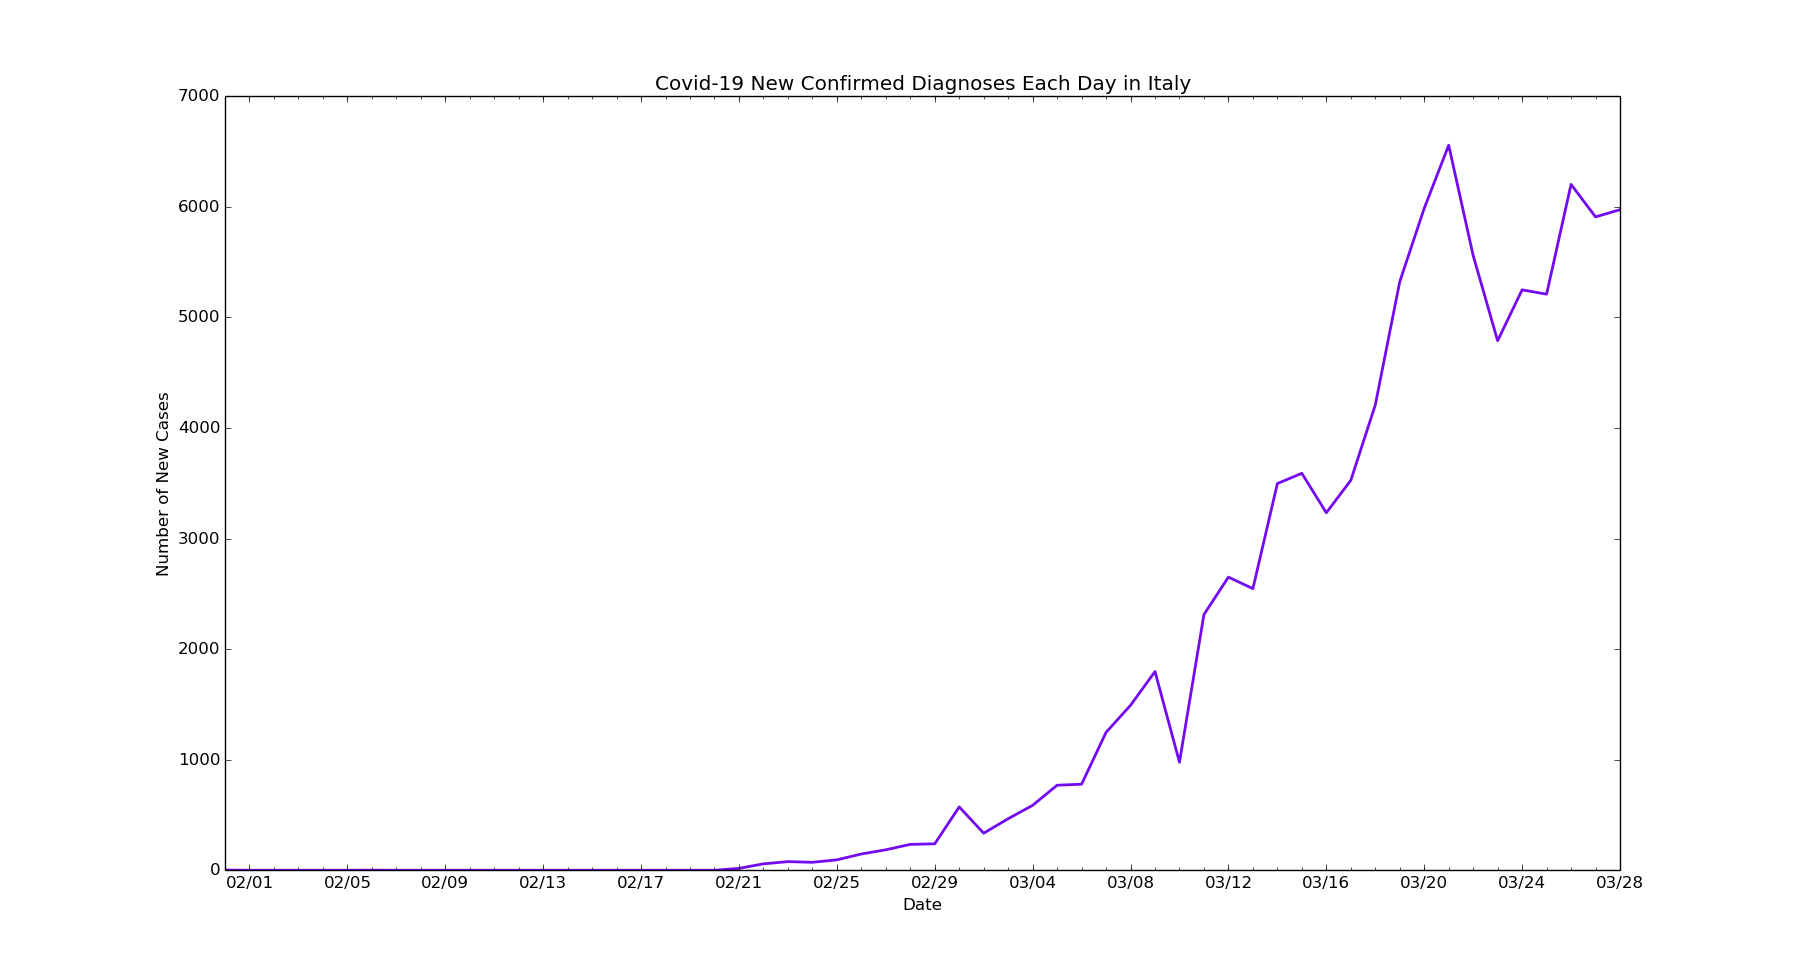
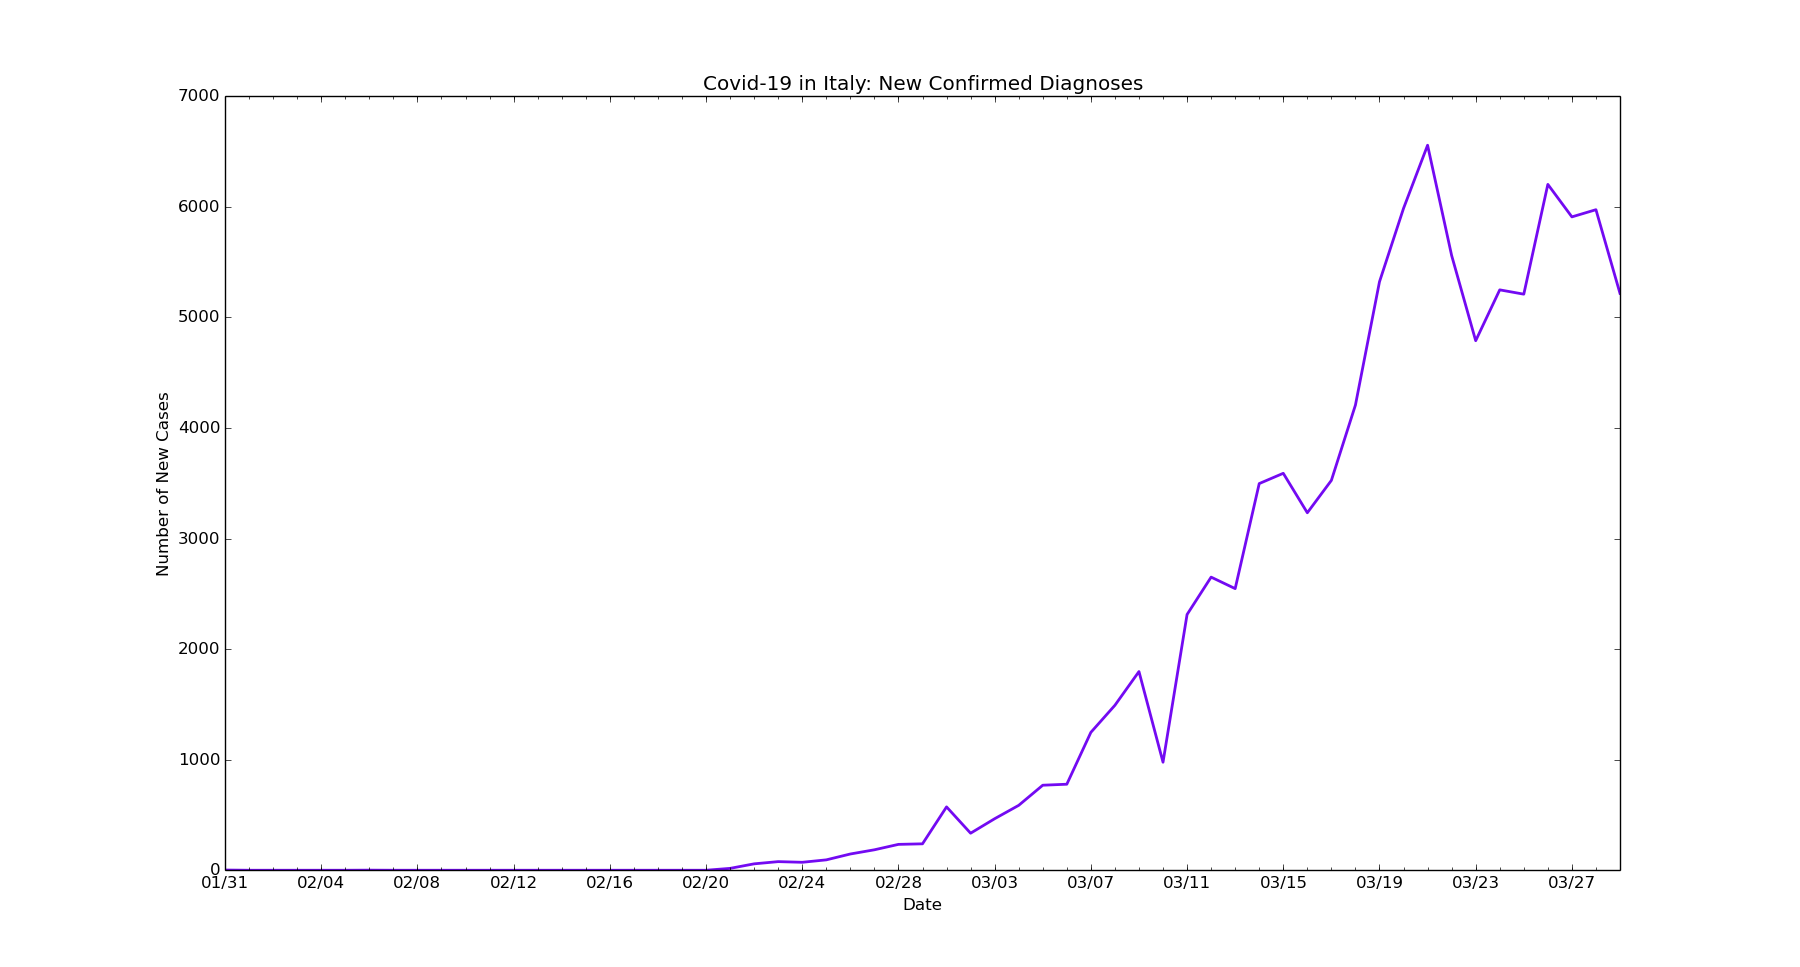
chore: Update data for Italy

diff --git a/italy/it-nc.py b/italy/it-nc.py
@@ -5,7 +5,7 @@ import matplotlib.pyplot as plt
 import matplotlib.dates as mdates
 from matplotlib.dates import MO, TU, WE, TH, FR, SA, SU
 
-dates = ['1/31/2020', '2/1/2020', '2/2/2020', '2/3/2020', '2/4/2020', '2/5/2020', '2/6/2020', '2/7/2020', '2/8/2020', '2/9/2020', '2/10/2020', '2/11/2020', '2/12/2020', '2/13/2020', '2/14/2020', '2/15/2020', '2/16/2020', '2/17/2020', '2/18/2020', '2/19/2020', '2/20/2020', '2/21/2020', '2/22/2020', '2/23/2020', '2/24/2020', '2/25/2020', '2/26/2020', '2/27/2020', '2/28/2020', '2/29/2020', '3/1/2020', '3/2/2020', '3/3/2020', '3/4/2020', '3/5/2020', '3/6/2020', '3/7/2020', '3/8/2020', '3/9/2020', '3/10/2020', '3/11/2020', '3/12/2020', '3/13/2020', '3/14/2020', '3/15/2020', '3/16/2020', '3/17/2020', '3/18/2020', '3/19/2020', '3/20/2020', '3/21/2020', '3/22/2020', '3/23/2020', '3/24/2020', '3/25/2020', '3/26/2020', '3/27/2020', '3/28/2020']
+dates = ['1/31/2020', '2/1/2020', '2/2/2020', '2/3/2020', '2/4/2020', '2/5/2020', '2/6/2020', '2/7/2020', '2/8/2020', '2/9/2020', '2/10/2020', '2/11/2020', '2/12/2020', '2/13/2020', '2/14/2020', '2/15/2020', '2/16/2020', '2/17/2020', '2/18/2020', '2/19/2020', '2/20/2020', '2/21/2020', '2/22/2020', '2/23/2020', '2/24/2020', '2/25/2020', '2/26/2020', '2/27/2020', '2/28/2020', '2/29/2020', '3/1/2020', '3/2/2020', '3/3/2020', '3/4/2020', '3/5/2020', '3/6/2020', '3/7/2020', '3/8/2020', '3/9/2020', '3/10/2020', '3/11/2020', '3/12/2020', '3/13/2020', '3/14/2020', '3/15/2020', '3/16/2020', '3/17/2020', '3/18/2020', '3/19/2020', '3/20/2020', '3/21/2020', '3/22/2020', '3/23/2020', '3/24/2020', '3/25/2020', '3/26/2020', '3/27/2020', '3/28/2020', '3/29/2020']
 
 # format dates
 x_values = [datetime.datetime.strptime(d, "%m/%d/%Y").date() for d in dates]
@@ -20,10 +20,10 @@ ax.xaxis.set_major_locator(mdates.WeekdayLocator(byweekday=(MO, TU, WE, TH, FR, 
 ax.xaxis.set_minor_locator(mdates.WeekdayLocator(byweekday=(MO, TU, WE, TH, FR, SA, SU)))
 
 # new cases by day
-new_cases = [2, 0, 0, 0, 0, 0, 1, 0, 0, 0, 0, 0, 0, 0, 0, 0, 0, 0, 0, 0, 0, 17, 58, 78, 72, 94, 147, 185, 234, 239, 573, 335, 466, 587, 769, 778, 1247, 1492, 1797, 977, 2313, 2651, 2547, 3497, 3590, 3233, 3526, 4207, 5322, 5986, 6557, 5560, 4789, 5249, 5210, 6203, 5909, 5974]
+new_cases = [2, 0, 0, 0, 0, 0, 1, 0, 0, 0, 0, 0, 0, 0, 0, 0, 0, 0, 0, 0, 0, 17, 58, 78, 72, 94, 147, 185, 234, 239, 573, 335, 466, 587, 769, 778, 1247, 1492, 1797, 977, 2313, 2651, 2547, 3497, 3590, 3233, 3526, 4207, 5322, 5986, 6557, 5560, 4789, 5249, 5210, 6203, 5909, 5974, 5217]
 
 # text labels
-plt.title('Covid-19 New Confirmed Diagnoses Each Day in Italy')
+plt.title('Covid-19 in Italy: New Confirmed Diagnoses')
 plt.xlabel('Date')
 plt.ylabel('Number of New Cases')
 

diff --git a/italy/it-rvd.py b/italy/it-rvd.py
@@ -6,7 +6,7 @@ import matplotlib.dates as mdates
 import matplotlib.ticker as ticker
 from matplotlib.dates import MO, TU, WE, TH, FR, SA, SU
 
-dates = ['2/20/2020', '2/21/2020', '2/22/2020', '2/23/2020', '2/24/2020', '2/25/2020', '2/26/2020', '2/27/2020', '2/28/2020', '2/29/2020', '3/1/2020', '3/2/2020', '3/3/2020', '3/4/2020', '3/5/2020', '3/6/2020', '3/7/2020', '3/8/2020', '3/9/2020', '3/10/2020', '3/11/2020', '3/12/2020', '3/13/2020', '3/14/2020', '3/15/2020', '3/16/2020', '3/17/2020', '3/18/2020', '3/19/2020', '3/20/2020', '3/21/2020', '3/22/2020', '3/23/2020', '3/24/2020', '3/25/2020', '3/26/2020', '3/27/2020', '3/28/2020']
+dates = ['2/20/2020', '2/21/2020', '2/22/2020', '2/23/2020', '2/24/2020', '2/25/2020', '2/26/2020', '2/27/2020', '2/28/2020', '2/29/2020', '3/1/2020', '3/2/2020', '3/3/2020', '3/4/2020', '3/5/2020', '3/6/2020', '3/7/2020', '3/8/2020', '3/9/2020', '3/10/2020', '3/11/2020', '3/12/2020', '3/13/2020', '3/14/2020', '3/15/2020', '3/16/2020', '3/17/2020', '3/18/2020', '3/19/2020', '3/20/2020', '3/21/2020', '3/22/2020', '3/23/2020', '3/24/2020', '3/25/2020', '3/26/2020', '3/27/2020', '3/28/2020', '3/29/2020']
 
 # format dates
 x_values = [datetime.datetime.strptime(d, "%m/%d/%Y").date() for d in dates]
@@ -24,17 +24,17 @@ ax.xaxis.set_minor_locator(mdates.WeekdayLocator(byweekday=(MO, TU, WE, TH, FR, 
 ax.get_yaxis().set_major_formatter(ticker.FuncFormatter(lambda x, pos: format(int(x), ',')))
 
 # recoveries
-recoveries = [0, 1, 2, 2, 2, 3, 3, 45, 46, 50, 90, 149, 160, 276, 414, 523, 589, 622, 724, 1004, 1045, 1258, 1439, 1966, 2335, 2749, 2941, 4025, 4440, 5129, 6072, 7024, 7432, 8326, 9362, 10361, 10950, 12384]
+recoveries = [0, 1, 2, 2, 2, 3, 3, 45, 46, 50, 90, 149, 160, 276, 414, 523, 589, 622, 724, 1004, 1045, 1258, 1439, 1966, 2335, 2749, 2941, 4025, 4440, 5129, 6072, 7024, 7432, 8326, 9362, 10361, 10950, 12384, 13030]
 
 # deaths
-deaths = [0, 1, 2, 3, 6, 10, 12, 17, 21, 29, 34, 52, 79, 107, 148, 197, 233, 366, 463, 631, 827, 1016, 1266, 1441, 1809, 2158, 2503, 2978, 3405, 4032, 4825, 5476, 6077, 6820, 7503, 8215, 9134, 10023]
+deaths = [0, 1, 2, 3, 6, 10, 12, 17, 21, 29, 34, 52, 79, 107, 148, 197, 233, 366, 463, 631, 827, 1016, 1266, 1441, 1809, 2158, 2503, 2978, 3405, 4032, 4825, 5476, 6077, 6820, 7503, 8215, 9134, 10023, 10779]
 
 # create the graph
 plt.plot(x_values, recoveries, color='#12cfdf', linewidth=2)
 plt.plot(x_values, deaths, color='#C70039', linewidth=2)
 
 # text labels
-plt.title('Covid-19 Recoveries vs Deaths in Italy')
+plt.title('Covid-19 in Italy: Recoveries vs Deaths')
 plt.xlabel('Date')
 plt.ylabel('Total')
 plt.legend(['Total Recoveries', 'Total Deaths'], loc='upper left')
